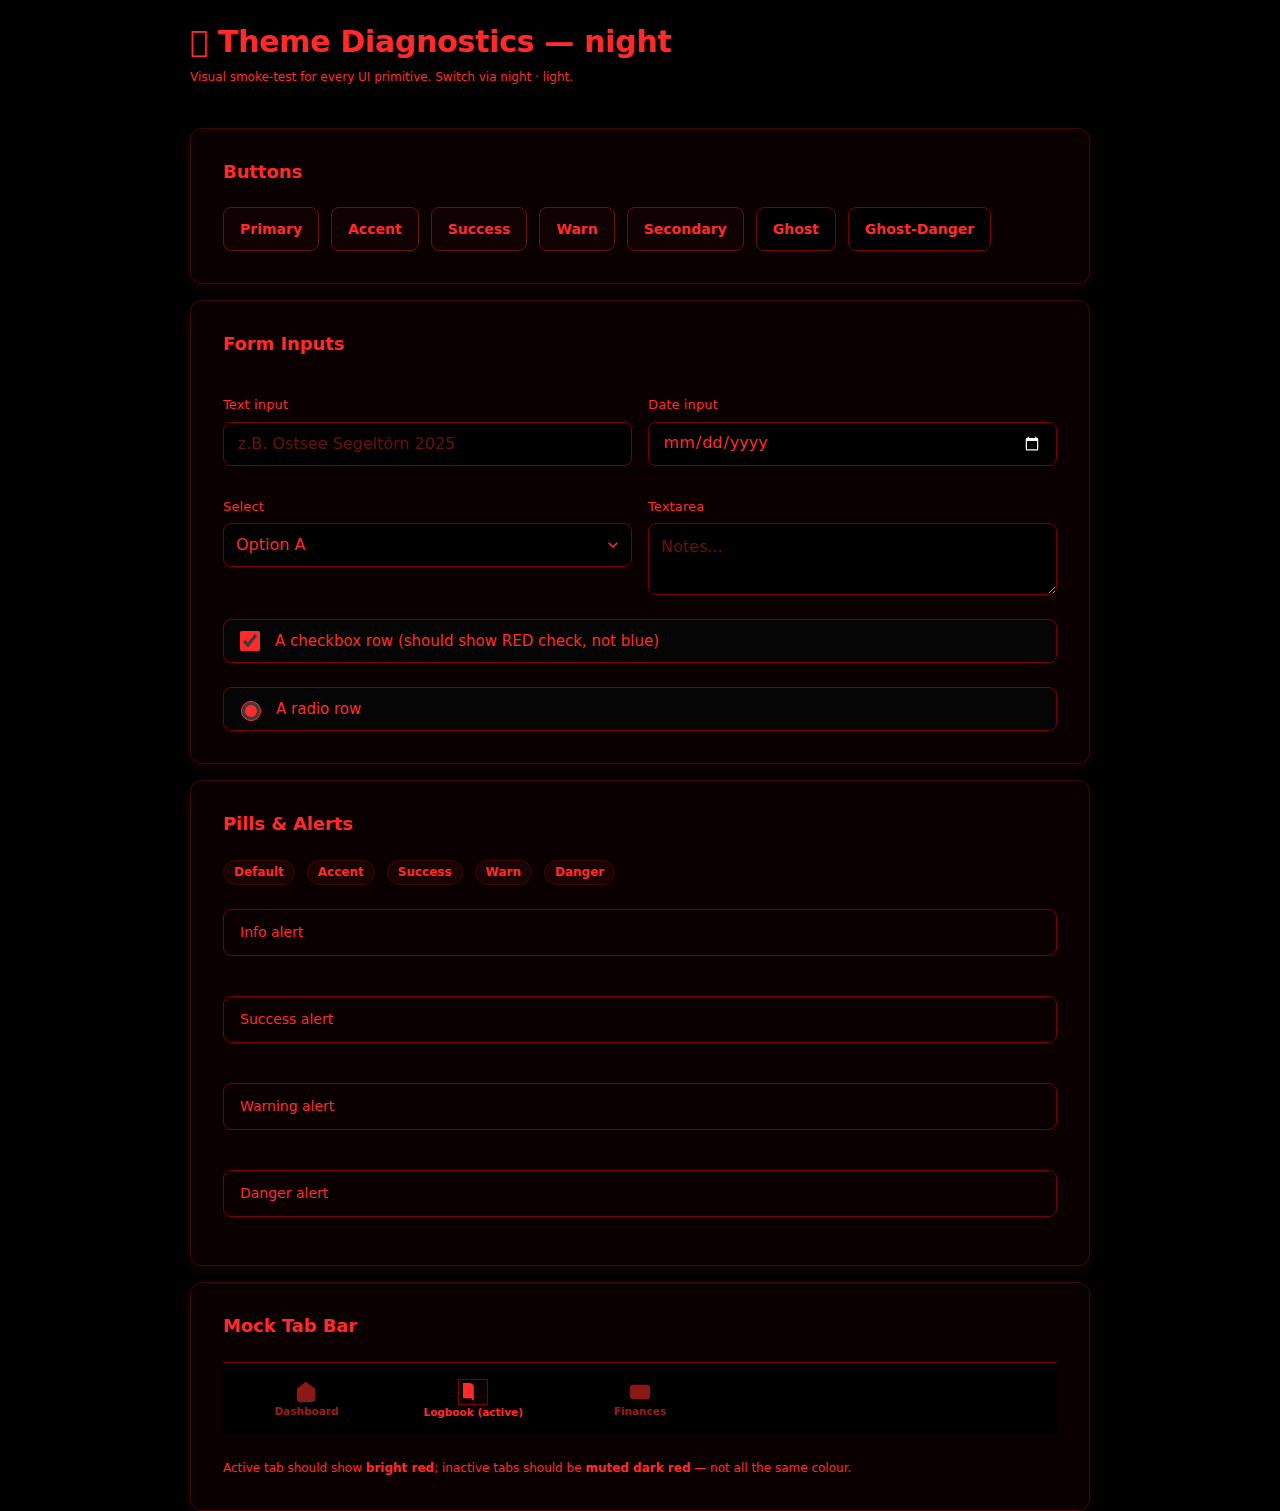
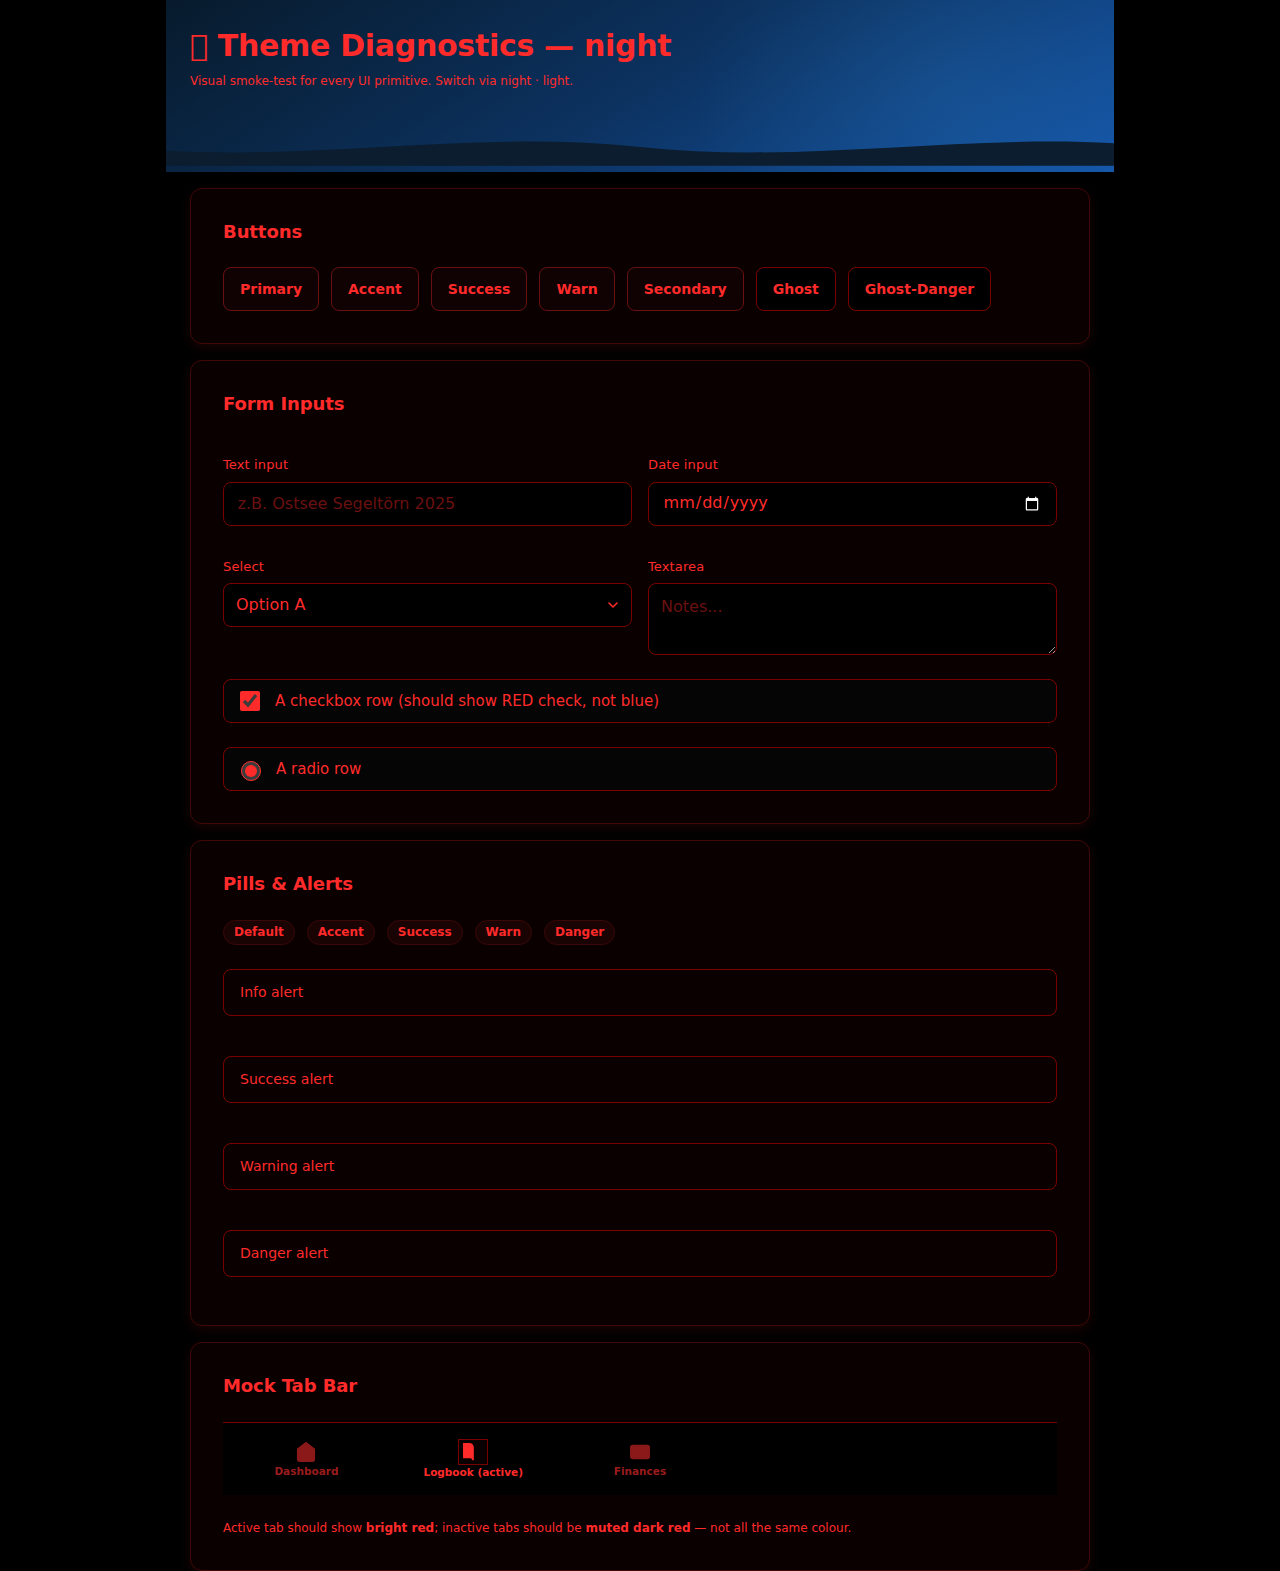
Apply maritime theme tokens to standalone auth pages
Replit-Task-Id: b9f58b25-ab3a-405f-9821-e6ed1a86288b
Replit-Merge-Attempt: MergeTask:b9f58b25-ab3a-405f-9821-e6ed1a86288b:1:e0cfecf7

diff --git a/templates/login.html b/templates/login.html
@@ -11,13 +11,15 @@
     <link rel="preconnect" href="https://fonts.googleapis.com">
     <link rel="preconnect" href="https://fonts.gstatic.com" crossorigin>
     <link href="https://fonts.googleapis.com/css2?family=Inter:wght@400;500;600;700&display=swap" rel="stylesheet">
-    <link rel="stylesheet" href="/static/ui_v1.css?v={{ asset_version }}">
-    <link rel="stylesheet" href="/static/ui_night_mode.css?v={{ asset_version }}">
     {% include "_theme_bootstrap.html" %}
+    <link rel="stylesheet" href="/static/ui_v1.css?v={{ asset_version }}">
+    <link rel="stylesheet" href="/static/cl_design.css?v={{ asset_version }}">
+    <link rel="stylesheet" href="/static/ui_night_mode.css?v={{ asset_version }}">
+    <link rel="stylesheet" href="/static/auth_theme.css?v={{ asset_version }}">
     {% include "_night_critical.html" %}
     <style>
         body {
-            background: linear-gradient(180deg, #1a2f4a 0%, #0d3b5e 100%);
+            background: var(--cl-bg, var(--bg));
             min-height: 100vh;
             display: flex;
             align-items: center;
@@ -44,27 +46,28 @@
             font-size: 16px;
         }
 
-        /* The desktop skin gives native selects a white surface. Keep the
-           populated trip value readable instead of inheriting the dark-theme
-           light text token onto that white surface. */
+        /* Keep the native select aligned with the dark maritime form inputs. */
         .login-trip-select {
-            color: #172536 !important;
-            background-color: #ffffff !important;
-            border-color: #7ea8d1 !important;
+            color: var(--cl-text, var(--text)) !important;
+            background-color: var(--cl-surface-2, var(--surface-2)) !important;
+            border-color: var(--cl-border, var(--border)) !important;
             font-weight: 500;
-            color-scheme: light;
+            color-scheme: dark;
         }
         .login-trip-select option {
-            color: #172536 !important;
-            background-color: #ffffff !important;
+            color: var(--cl-text, var(--text)) !important;
+            background-color: var(--cl-surface-2, var(--surface-2)) !important;
             font-weight: 500;
         }
         .login-trip-select:focus {
-            border-color: #3b9ad4 !important;
-            box-shadow: 0 0 0 3px rgba(59, 154, 212, 0.22) !important;
+            border-color: var(--cl-accent, var(--accent)) !important;
+            box-shadow: 0 0 0 3px color-mix(in srgb, var(--cl-accent, var(--accent)) 24%, transparent) !important;
+        }
+        html[data-theme="day"] .login-trip-select {
+            color-scheme: light;
         }
         .login-trip-hint {
-            color: var(--text-secondary) !important;
+            color: var(--cl-text-muted, var(--text-secondary)) !important;
             opacity: 1 !important;
         }
         html[data-theme="night"] .login-trip-select {
@@ -86,7 +89,7 @@
         }
     </style>
 </head>
-<body>
+<body class="auth-page">
     <div class="w-full max-w-md px-4">
         <div class="flex justify-end mb-4">
             <div class="lang-pill">
@@ -99,8 +102,8 @@
             <div class="logo-float mb-4 flex justify-center">
                 <img src="/static/logo-crewlog.svg" alt="CrewLog Logo" class="w-20 h-20 object-contain">
             </div>
-            <h1 class="text-3xl font-bold text-white mb-1" style="letter-spacing: -0.02em;">{% if not branding.is_default %}{{ branding.brand_name }} {% endif %}CrewLog</h1>
-            <p class="text-sm" style="color: rgba(255,255,255,0.6);">{{ t('auth.subtitle') }}</p>
+            <h1 class="auth-brand-title text-3xl font-bold mb-1" style="letter-spacing: -0.02em;">{% if not branding.is_default %}{{ branding.brand_name }} {% endif %}CrewLog</h1>
+            <p class="auth-brand-subtitle text-sm">{{ t('auth.subtitle') }}</p>
         </div>
         
         <div class="login-card p-8">
@@ -268,7 +271,7 @@
             </div>
         </div>
         
-        <div class="text-center mt-6 text-sm" style="color: rgba(255,255,255,0.4);">
+        <div class="auth-brand-footer text-center mt-6 text-sm">
             <p>{% if not branding.is_default %}{{ branding.brand_name }} - {% endif %}CrewLog</p>
         </div>
     </div>

diff --git a/templates/forgot_password.html b/templates/forgot_password.html
@@ -11,10 +11,15 @@
     <link rel="preconnect" href="https://fonts.googleapis.com">
     <link rel="preconnect" href="https://fonts.gstatic.com" crossorigin>
     <link href="https://fonts.googleapis.com/css2?family=Inter:wght@400;500;600;700&display=swap" rel="stylesheet">
+    {% include "_theme_bootstrap.html" %}
     <link rel="stylesheet" href="/static/ui_v1.css?v={{ asset_version }}">
+    <link rel="stylesheet" href="/static/cl_design.css?v={{ asset_version }}">
+    <link rel="stylesheet" href="/static/ui_night_mode.css?v={{ asset_version }}">
+    <link rel="stylesheet" href="/static/auth_theme.css?v={{ asset_version }}">
+    {% include "_night_critical.html" %}
     <style>
         body {
-            background: linear-gradient(180deg, #1a2f4a 0%, #0d3b5e 100%);
+            background: var(--cl-bg, var(--bg));
             min-height: 100vh;
             display: flex;
             align-items: center;
@@ -36,7 +41,7 @@
         input { font-size: 16px; }
     </style>
 </head>
-<body>
+<body class="auth-page">
     <div class="w-full max-w-md px-4">
         <div class="flex justify-end mb-4">
             <div class="lang-pill">
@@ -49,8 +54,8 @@
             <div class="logo-float mb-4 flex justify-center">
                 <img src="/static/logo-crewlog.svg" alt="CrewLog Logo" class="w-20 h-20 object-contain">
             </div>
-            <h1 class="text-3xl font-bold text-white mb-1" style="letter-spacing: -0.02em;">CrewLog</h1>
-            <p class="text-sm" style="color: rgba(255,255,255,0.6);">{{ t('forgot.subtitle') }}</p>
+            <h1 class="auth-brand-title text-3xl font-bold mb-1" style="letter-spacing: -0.02em;">CrewLog</h1>
+            <p class="auth-brand-subtitle text-sm">{{ t('forgot.subtitle') }}</p>
         </div>
 
         <div class="login-card p-8">
@@ -101,7 +106,7 @@
             {% endif %}
         </div>
 
-        <div class="text-center mt-6 text-sm" style="color: rgba(255,255,255,0.4);">
+        <div class="auth-brand-footer text-center mt-6 text-sm">
             <p>CrewLog</p>
         </div>
     </div>

diff --git a/static/auth_theme.css b/static/auth_theme.css
@@ -1,0 +1,70 @@
+/* ==========================================================================
+   CrewLog standalone authentication pages
+   These templates do not extend layout.html, so they need a small, explicit
+   bridge to the shared maritime tokens rather than the desktop skin defaults.
+   ========================================================================== */
+
+.auth-page {
+  background: var(--cl-bg, var(--bg));
+  color: var(--cl-text, var(--text));
+}
+
+.auth-page .auth-brand-title {
+  color: var(--cl-text, var(--text));
+}
+
+.auth-page .auth-brand-subtitle {
+  color: var(--cl-text-muted, var(--text-secondary));
+}
+
+.auth-page .auth-brand-footer {
+  color: var(--cl-text-subtle, var(--muted));
+}
+
+.auth-page .lang-pill {
+  background: var(--cl-surface-2, var(--surface-2));
+  border: 1px solid var(--cl-border, var(--border));
+}
+
+.auth-page .lang-pill a {
+  color: var(--cl-text-muted, var(--text-secondary));
+}
+
+.auth-page .lang-pill a:hover,
+.auth-page .lang-pill a.lang-active {
+  color: var(--cl-text, var(--text));
+}
+
+.auth-page .lang-pill a.lang-active {
+  background: var(--cl-surface, var(--surface));
+}
+
+.auth-page .login-card {
+  background: var(--cl-surface, var(--surface));
+  border-color: var(--cl-border, var(--border));
+  box-shadow: var(--cl-shadow, var(--shadow-lg));
+}
+
+.auth-page .login-card label {
+  color: var(--cl-text, var(--text));
+}
+
+.auth-page .login-card input[type="text"],
+.auth-page .login-card input[type="email"],
+.auth-page .login-card input[type="password"],
+.auth-page .login-card select {
+  background-color: var(--cl-surface-2, var(--surface-2));
+  border-color: var(--cl-border, var(--border));
+  color: var(--cl-text, var(--text));
+}
+
+.auth-page .login-card input::placeholder {
+  color: var(--cl-text-subtle, var(--muted));
+  opacity: 1;
+}
+
+.auth-page .login-card input:focus,
+.auth-page .login-card select:focus {
+  border-color: var(--cl-accent, var(--accent));
+  box-shadow: 0 0 0 3px color-mix(in srgb, var(--cl-accent, var(--accent)) 24%, transparent);
+}

diff --git a/templates/reset_password.html b/templates/reset_password.html
@@ -11,10 +11,15 @@
     <link rel="preconnect" href="https://fonts.googleapis.com">
     <link rel="preconnect" href="https://fonts.gstatic.com" crossorigin>
     <link href="https://fonts.googleapis.com/css2?family=Inter:wght@400;500;600;700&display=swap" rel="stylesheet">
+    {% include "_theme_bootstrap.html" %}
     <link rel="stylesheet" href="/static/ui_v1.css?v={{ asset_version }}">
+    <link rel="stylesheet" href="/static/cl_design.css?v={{ asset_version }}">
+    <link rel="stylesheet" href="/static/ui_night_mode.css?v={{ asset_version }}">
+    <link rel="stylesheet" href="/static/auth_theme.css?v={{ asset_version }}">
+    {% include "_night_critical.html" %}
     <style>
         body {
-            background: linear-gradient(180deg, #1a2f4a 0%, #0d3b5e 100%);
+            background: var(--cl-bg, var(--bg));
             min-height: 100vh;
             display: flex;
             align-items: center;
@@ -36,7 +41,7 @@
         input { font-size: 16px; }
     </style>
 </head>
-<body>
+<body class="auth-page">
     <div class="w-full max-w-md px-4">
         <div class="flex justify-end mb-4">
             <div class="lang-pill">
@@ -49,7 +54,7 @@
             <div class="logo-float mb-4 flex justify-center">
                 <img src="/static/logo-crewlog.svg" alt="CrewLog Logo" class="w-20 h-20 object-contain">
             </div>
-            <h1 class="text-3xl font-bold text-white mb-1" style="letter-spacing: -0.02em;">CrewLog</h1>
+            <h1 class="auth-brand-title text-3xl font-bold mb-1" style="letter-spacing: -0.02em;">CrewLog</h1>
         </div>
 
         <div class="login-card p-8">
@@ -117,7 +122,7 @@
             {% endif %}
         </div>
 
-        <div class="text-center mt-6 text-sm" style="color: rgba(255,255,255,0.4);">
+        <div class="auth-brand-footer text-center mt-6 text-sm">
             <p>CrewLog</p>
         </div>
     </div>
